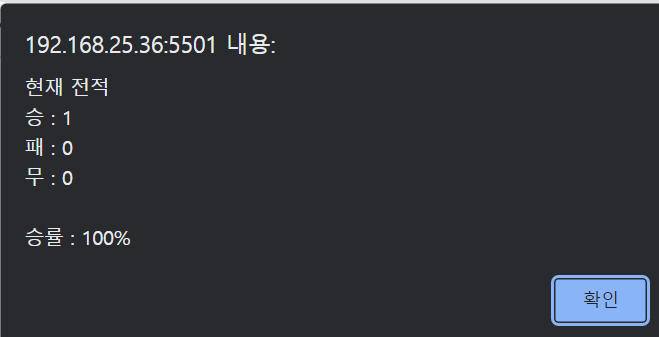
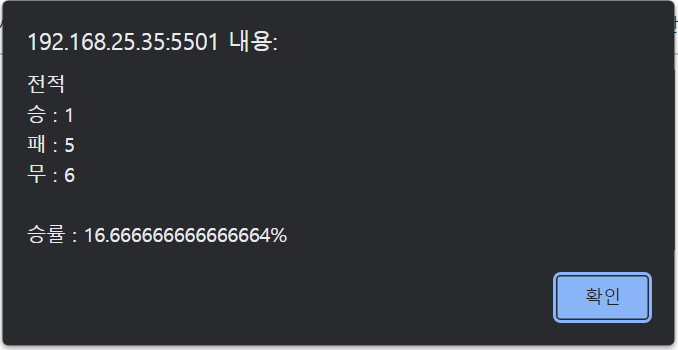
posting

Changed region(s): [[0.0, 0.0, 1.0, 1.0]]

diff --git a/_posts/devlog/2022-08-14-dev-use-dom.md b/_posts/devlog/2022-08-14-dev-use-dom.md
@@ -106,12 +106,12 @@ let wints: number = 0;
 let defeatts: number = 0;
 let drawts: number = 0;
 
-function playts(num) {
-  if (num == 1) {
+function playts(value) {
+  if (value == 1) {
     playerStateCharts
    = "가위";
     playerStatets = 1;
-  } else if (num == 2) {
+  } else if (value == 2) {
     playerStateCharts = "바위";
     playerStatets = 2;
   } else {
@@ -169,18 +169,18 @@ function showResultts() {
   if (resultts == 0) {
     drawts++;
     alert("당신 : " + playerStateCharts + "\n컴퓨터 : " + comStateCharts + "\n\n비겼습니다.");
-    alert("현재 전적\n승 : " + wints + "\n패 : " + defeatts + "\n무 : " + drawts + "\n\n승률 : " + getWinRatets() + "%");
+    alert("전적\n승 : " + wints + "\n패 : " + defeatts + "\n무 : " + drawts + "\n\n승률 : " + getWinRatets() + "%");
   } else if (resultts == 1) {
     wints++;
     alert("당신 : " + playerStateCharts + "\n컴퓨터 : " + comStateCharts + "\n\n이겼습니다!");
-    alert("현재 전적\n승 : " + wints + "\n패 : " + defeatts + "\n무 : " + drawts + "\n\n승률 : " + getWinRatets() + "%");
+    alert("전적\n승 : " + wints + "\n패 : " + defeatts + "\n무 : " + drawts + "\n\n승률 : " + getWinRatets() + "%");
   } else if (resultts == -1) {
     defeatts++;
     alert("당신 : " + playerStateCharts + "\n컴퓨터 : " + comStateCharts + "\n\n졌습니다...");
-    alert("현재 전적\n승 : " + wints + "\n패 : " + defeatts + "\n무 : " + drawts + "\n\n승률 : " + getWinRatets() + "%");
+    alert("전적\n승 : " + wints + "\n패 : " + defeatts + "\n무 : " + drawts + "\n\n승률 : " + getWinRatets() + "%");
   } else {
     alert("초기화 되었습니다.");
-    alert("현재 전적\n승 : " + wints + "\n패 : " + defeatts + "\n무 : " + drawts + "\n\n승률 : " + getWinRatets() + "%");
+    alert("전적\n승 : " + wints + "\n패 : " + defeatts + "\n무 : " + drawts + "\n\n승률 : " + getWinRatets() + "%");
   }
 }
 
@@ -220,13 +220,13 @@ var resultts = 0;
 var wints = 0;
 var defeatts = 0;
 var drawts = 0;
-function playts(num) {
-    if (num == 1) {
+function playts(value) {
+    if (value == 1) {
         playerStateCharts
             = "가위";
         playerStatets = 1;
     }
-    else if (num == 2) {
+    else if (value == 2) {
         playerStateCharts = "바위";
         playerStatets = 2;
     }
@@ -288,21 +288,21 @@ function showResultts() {
     if (resultts == 0) {
         drawts++;
         alert("당신 : " + playerStateCharts + "\n컴퓨터 : " + comStateCharts + "\n\n비겼습니다.");
-        alert("현재 전적\n승 : " + wints + "\n패 : " + defeatts + "\n무 : " + drawts + "\n\n승률 : " + getWinRatets() + "%");
+        alert("전적\n승 : " + wints + "\n패 : " + defeatts + "\n무 : " + drawts + "\n\n승률 : " + getWinRatets() + "%");
     }
     else if (resultts == 1) {
         wints++;
         alert("당신 : " + playerStateCharts + "\n컴퓨터 : " + comStateCharts + "\n\n이겼습니다!");
-        alert("현재 전적\n승 : " + wints + "\n패 : " + defeatts + "\n무 : " + drawts + "\n\n승률 : " + getWinRatets() + "%");
+        alert("전적\n승 : " + wints + "\n패 : " + defeatts + "\n무 : " + drawts + "\n\n승률 : " + getWinRatets() + "%");
     }
     else if (resultts == -1) {
         defeatts++;
         alert("당신 : " + playerStateCharts + "\n컴퓨터 : " + comStateCharts + "\n\n졌습니다...");
-        alert("현재 전적\n승 : " + wints + "\n패 : " + defeatts + "\n무 : " + drawts + "\n\n승률 : " + getWinRatets() + "%");
+        alert("전적\n승 : " + wints + "\n패 : " + defeatts + "\n무 : " + drawts + "\n\n승률 : " + getWinRatets() + "%");
     }
     else {
         alert("초기화 되었습니다.");
-        alert("현재 전적\n승 : " + wints + "\n패 : " + defeatts + "\n무 : " + drawts + "\n\n승률 : " + getWinRatets() + "%");
+        alert("전적\n승 : " + wints + "\n패 : " + defeatts + "\n무 : " + drawts + "\n\n승률 : " + getWinRatets() + "%");
     }
 }
 // 승률 계산
